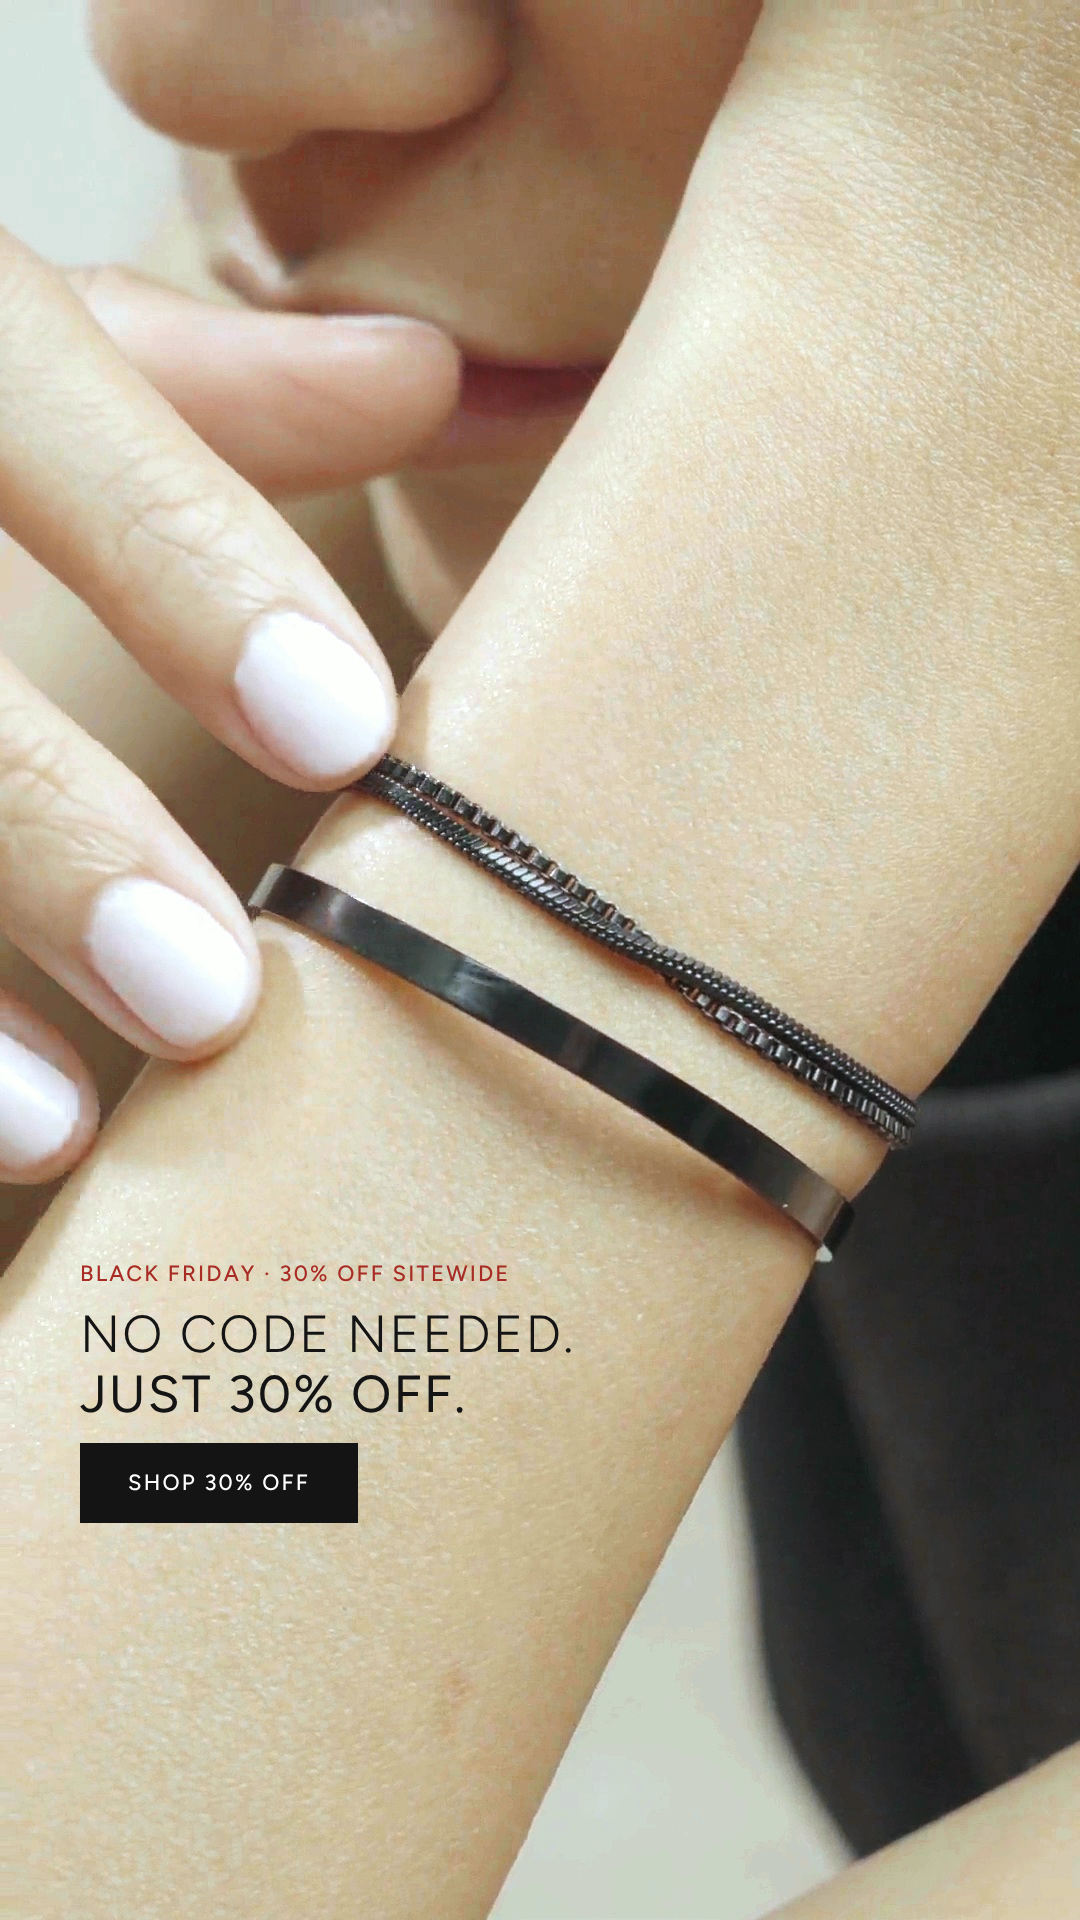
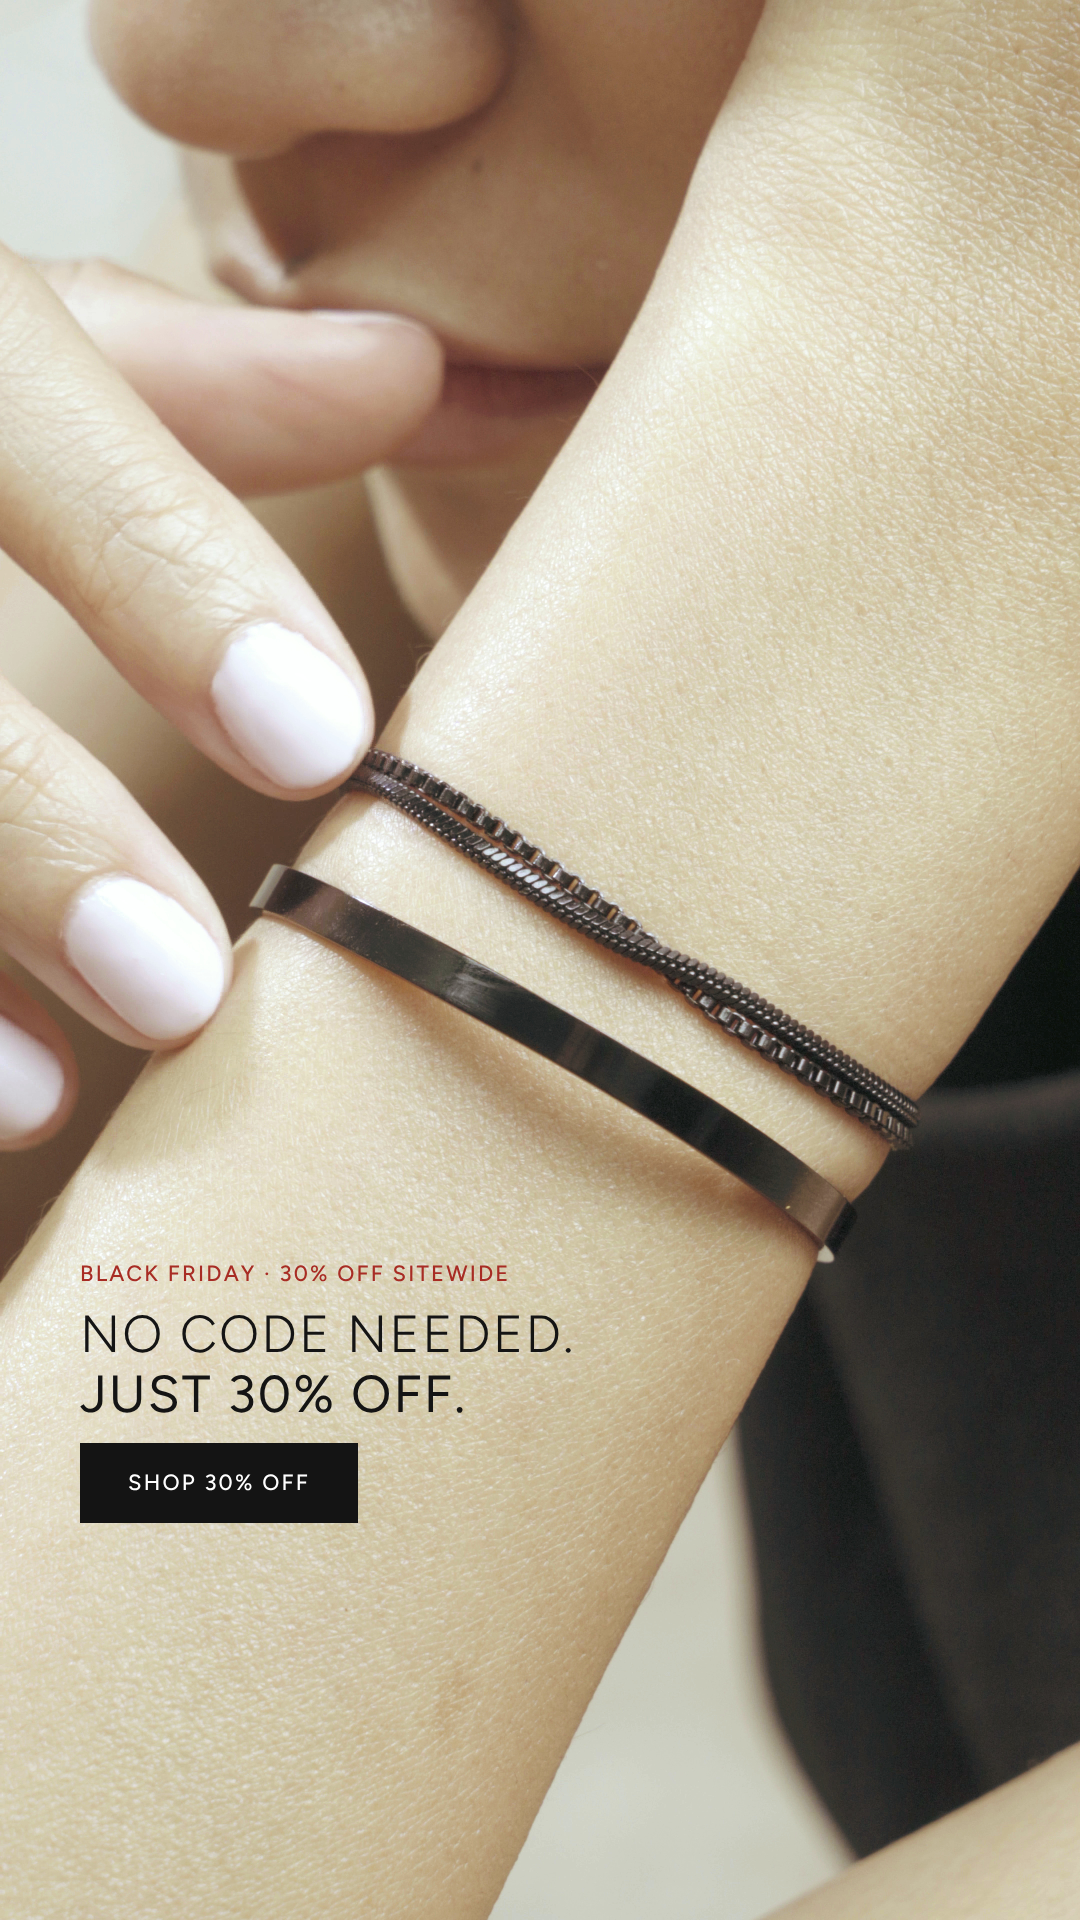
W421 C1-C3: stills redone from 4K camera originals (sharpest frame, matched grade); new EN/No Text exports; dlorig.js + stillmatch.py
Claude-Session: https://claude.ai/code/session_01LtGMNmy7hV4kZNsS3Vsb6Q

diff --git a/bfcm26/canvas/W421-C2.dc.html b/bfcm26/canvas/W421-C2.dc.html
@@ -15,10 +15,10 @@ a{color:#141414}a:hover{color:#000000}
 </style>
 </helmet>
 <div style="width: 1080px; height: 1920px; position: relative; overflow: hidden; background: #E9E6E1; font-family: Figtree, sans-serif; color: #141414">
-<div data-tag="status" style="position: absolute; top: 28px; left: 28px; z-index: 50; display: flex; flex-direction: column; align-items: flex-start; gap: 10px; pointer-events: none"><span style="padding: 12px 20px; background: #8FCBA2; color: #141414; font-family: Figtree, sans-serif; font-size: 28px; font-weight: 600; letter-spacing: 0.1em">CLICKUP ✓ DONE</span><span style="padding: 12px 20px; background: #8FCBA2; color: #141414; font-family: Figtree, sans-serif; font-size: 28px; font-weight: 600; letter-spacing: 0.1em">FRAME ✓ UPLOADED</span></div>
+<div data-tag="status" style="position: absolute; top: 28px; left: 28px; z-index: 50; display: flex; flex-direction: column; align-items: flex-start; gap: 10px; pointer-events: none"><span style="padding: 12px 20px; background: #8FCBA2; color: #141414; font-family: Figtree, sans-serif; font-size: 28px; font-weight: 600; letter-spacing: 0.1em">CLICKUP ✓ DONE</span><span style="padding: 12px 20px; background: #F4D58A; color: #141414; font-family: Figtree, sans-serif; font-size: 28px; font-weight: 600; letter-spacing: 0.1em">HQ 4K STILL · FRAME RE-UPLOAD PENDING</span></div>
 
 
-<img src="/_blob/1d3767d1c1104ab67114a009bb9042c9" alt="Profile of a woman with her arm across her face, wearing the black 3x Minimal - Stack Set" style="position: absolute; top: -190px; left: -54px; width: 1188px; height: 2112px; object-fit: cover; display: block">
+<img src="/_blob/bb58a8128e7f006d5b81b7bd1c46c3ab" alt="Profile of a woman with her arm across her face, wearing the black 3x Minimal - Stack Set" style="position: absolute; top: -190px; left: -54px; width: 1188px; height: 2112px; object-fit: cover; display: block">
 <div style="position: absolute; top: 1260px; left: 80px; width: 920px; display: flex; flex-direction: column; align-items: flex-start; gap: 18px; text-align: left">
 <span style="font-size: 22px; font-weight: 500; letter-spacing: 0.1em; color: #A82C24">BLACK FRIDAY · 30% OFF SITEWIDE</span>
 <h1 style="margin: 0; font-size: 52px; line-height: 1.15; letter-spacing: 0.04em; font-weight: 300; text-transform: uppercase">Made to<br><span style="font-weight: 400">stay on.</span></h1>

diff --git a/bfcm26/canvas/W421-C1.dc.html b/bfcm26/canvas/W421-C1.dc.html
@@ -15,10 +15,10 @@ a{color:#141414}a:hover{color:#000000}
 </style>
 </helmet>
 <div style="width: 1080px; height: 1920px; position: relative; overflow: hidden; background: #EFEDEA; font-family: Figtree, sans-serif; color: #141414">
-<div data-tag="status" style="position: absolute; top: 28px; left: 28px; z-index: 50; display: flex; flex-direction: column; align-items: flex-start; gap: 10px; pointer-events: none"><span style="padding: 12px 20px; background: #8FCBA2; color: #141414; font-family: Figtree, sans-serif; font-size: 28px; font-weight: 600; letter-spacing: 0.1em">CLICKUP ✓ DONE</span><span style="padding: 12px 20px; background: #F4D58A; color: #141414; font-family: Figtree, sans-serif; font-size: 28px; font-weight: 600; letter-spacing: 0.1em">FRAME · UPLOADED? (CHECKING)</span></div>
+<div data-tag="status" style="position: absolute; top: 28px; left: 28px; z-index: 50; display: flex; flex-direction: column; align-items: flex-start; gap: 10px; pointer-events: none"><span style="padding: 12px 20px; background: #8FCBA2; color: #141414; font-family: Figtree, sans-serif; font-size: 28px; font-weight: 600; letter-spacing: 0.1em">CLICKUP ✓ DONE</span><span style="padding: 12px 20px; background: #F4D58A; color: #141414; font-family: Figtree, sans-serif; font-size: 28px; font-weight: 600; letter-spacing: 0.1em">HQ 4K STILL · FRAME RE-UPLOAD PENDING</span></div>
 
 
-<img src="/_blob/971bc34b3a33b2b5e23b1cc104cfbda0" alt="Fingertips touching the black 3x Minimal - Stack Set on a sun-kissed wrist, white bouclé behind" style="position: absolute; top: 0; left: 0; width: 1080px; height: 1090px; object-fit: cover; object-position: 50% 40%; display: block">
+<img src="/_blob/1e4fc0e387cfdbd73a95c28bd316f714" alt="Fingertips touching the black 3x Minimal - Stack Set on a sun-kissed wrist, white bouclé behind" style="position: absolute; top: 0; left: 0; width: 1080px; height: 1090px; object-fit: cover; object-position: 50% 40%; display: block">
 <div style="position: absolute; top: 1125px; left: 0; width: 1080px; display: flex; flex-direction: column; align-items: center; gap: 18px; text-align: center">
 <img src="/_blob/b5d78a878b48e10609c923597dd1852e" alt="Cavaier" style="width: 110px; height: auto; display: block">
 <span style="font-size: 22px; font-weight: 500; letter-spacing: 0.1em; color: #A82C24">BLACK FRIDAY · 30% OFF SITEWIDE</span>

diff --git a/bfcm26/canvas/W421-C3.dc.html b/bfcm26/canvas/W421-C3.dc.html
@@ -15,10 +15,10 @@ a{color:#141414}a:hover{color:#000000}
 </style>
 </helmet>
 <div style="width: 1080px; height: 1920px; position: relative; overflow: hidden; background: #E8E2DA; font-family: Figtree, sans-serif; color: #141414">
-<div data-tag="status" style="position: absolute; top: 28px; left: 28px; z-index: 50; display: flex; flex-direction: column; align-items: flex-start; gap: 10px; pointer-events: none"><span style="padding: 12px 20px; background: #8FCBA2; color: #141414; font-family: Figtree, sans-serif; font-size: 28px; font-weight: 600; letter-spacing: 0.1em">CLICKUP ✓ DONE</span><span style="padding: 12px 20px; background: #8FCBA2; color: #141414; font-family: Figtree, sans-serif; font-size: 28px; font-weight: 600; letter-spacing: 0.1em">FRAME ✓ UPLOADED</span></div>
+<div data-tag="status" style="position: absolute; top: 28px; left: 28px; z-index: 50; display: flex; flex-direction: column; align-items: flex-start; gap: 10px; pointer-events: none"><span style="padding: 12px 20px; background: #8FCBA2; color: #141414; font-family: Figtree, sans-serif; font-size: 28px; font-weight: 600; letter-spacing: 0.1em">CLICKUP ✓ DONE</span><span style="padding: 12px 20px; background: #F4D58A; color: #141414; font-family: Figtree, sans-serif; font-size: 28px; font-weight: 600; letter-spacing: 0.1em">HQ 4K STILL · FRAME RE-UPLOAD PENDING</span></div>
 
 
-<img src="/_blob/c7ed51fdc079b75ed09e7011faca7cf4" alt="Fingers resting on a sun-kissed wrist wearing the black 3x Minimal - Stack Set" style="position: absolute; top: 0; left: 0; width: 1080px; height: 1920px; object-fit: cover; display: block">
+<img src="/_blob/fe7912610eec2e02a7403fb52a273993" alt="Fingers resting on a sun-kissed wrist wearing the black 3x Minimal - Stack Set" style="position: absolute; top: 0; left: 0; width: 1080px; height: 1920px; object-fit: cover; display: block">
 <div style="position: absolute; top: 1260px; left: 80px; width: 920px; display: flex; flex-direction: column; align-items: flex-start; gap: 18px; text-align: left">
 <span style="font-size: 22px; font-weight: 500; letter-spacing: 0.1em; color: #A82C24">BLACK FRIDAY · 30% OFF SITEWIDE</span>
 <h1 style="margin: 0; font-size: 52px; line-height: 1.15; letter-spacing: 0.04em; font-weight: 300; text-transform: uppercase">No code needed.<br><span style="font-weight: 400">Just 30% off.</span></h1>

diff --git a/bfcm26/video-ad/dlorig.js b/bfcm26/video-ad/dlorig.js
@@ -1,0 +1,29 @@
+// Usage: node dl2.js <share base url> <walk.json> <outdir> <filename>...
+// Like dl2.js, but saves the ORIGINAL camera file (2160x3840) for stills cut from video.
+const { chromium } = require(process.env.PW);
+const fs = require('fs');
+(async () => {
+  const [base, walk, out, ...names] = process.argv.slice(2);
+  const ids = Object.fromEntries(JSON.parse(fs.readFileSync(walk)).map(r => [r.name, r.src.match(/encode\/([0-9a-f-]{36})\//)[1]]));
+  const b = await chromium.launch({ args: ['--no-sandbox'] });
+  const ctx = await b.newContext({ acceptDownloads: true, viewport: { width: 1600, height: 1200 } });
+  const p = await ctx.newPage();
+  for (const n of names) {
+    if (fs.existsSync(`${out}/${n}`)) { console.log('have', n); continue; }
+    try {
+      await p.goto(`${base}/view/${ids[n]}`, { waitUntil: 'networkidle', timeout: 300000 });
+      await p.waitForTimeout(2500);
+      const [d] = await Promise.all([
+        p.waitForEvent('download', { timeout: 300000 }),
+        (async () => {
+          await p.getByText('Download', { exact: true }).first().click();
+          await p.waitForTimeout(1500);
+          await p.getByText(/^2160x3840$/).first().click();
+        })(),
+      ]);
+      await d.saveAs(`${out}/${n}`);
+      console.log('ok', n, fs.statSync(`${out}/${n}`).size);
+    } catch (e) { console.log('ERR', n, e.message.split('\n')[0]); }
+  }
+  await b.close();
+})();

diff --git a/bfcm26/video-ad/stillmatch.py b/bfcm26/video-ad/stillmatch.py
@@ -1,0 +1,19 @@
+# Stills cut from video: map an original-camera frame to the approved grade by per-channel quantile matching against a reference still.
+import numpy as np, subprocess, sys
+from PIL import Image
+# usage: match.py src16.png ref_src16.png ref_graded8.png out16.png
+src,refsrc,refg,out=sys.argv[1:]
+def rd(p,w=2160,h=3840):
+    b=subprocess.run(['ffmpeg','-v','error','-i',p,'-f','rawvideo','-pix_fmt','rgb48le','-'],capture_output=True,check=True).stdout
+    return np.frombuffer(b,np.uint16).reshape(h,w,3).astype(np.float64)/65535
+A=rd(refsrc)
+A=A.reshape(1920,2,1080,2,3).mean(axis=(1,3))           # to 1080x1920
+B=np.asarray(Image.open(refg).convert('RGB'),np.float64)/255
+X=rd(src); Y=np.empty_like(X)
+q=np.linspace(0,1,513)
+for c in range(3):
+    xs=np.quantile(A[...,c],q); ys=np.quantile(B[...,c],q)
+    xs=np.maximum.accumulate(xs+np.arange(513)*1e-9)
+    Y[...,c]=np.interp(X[...,c],xs,ys)
+Y=(np.clip(Y,0,1)*65535+0.5).astype('<u2')
+subprocess.run(['ffmpeg','-v','error','-y','-f','rawvideo','-pix_fmt','rgb48le','-s','2160x3840','-i','-','-pix_fmt','rgb48be',out],input=Y.tobytes(),check=True)
